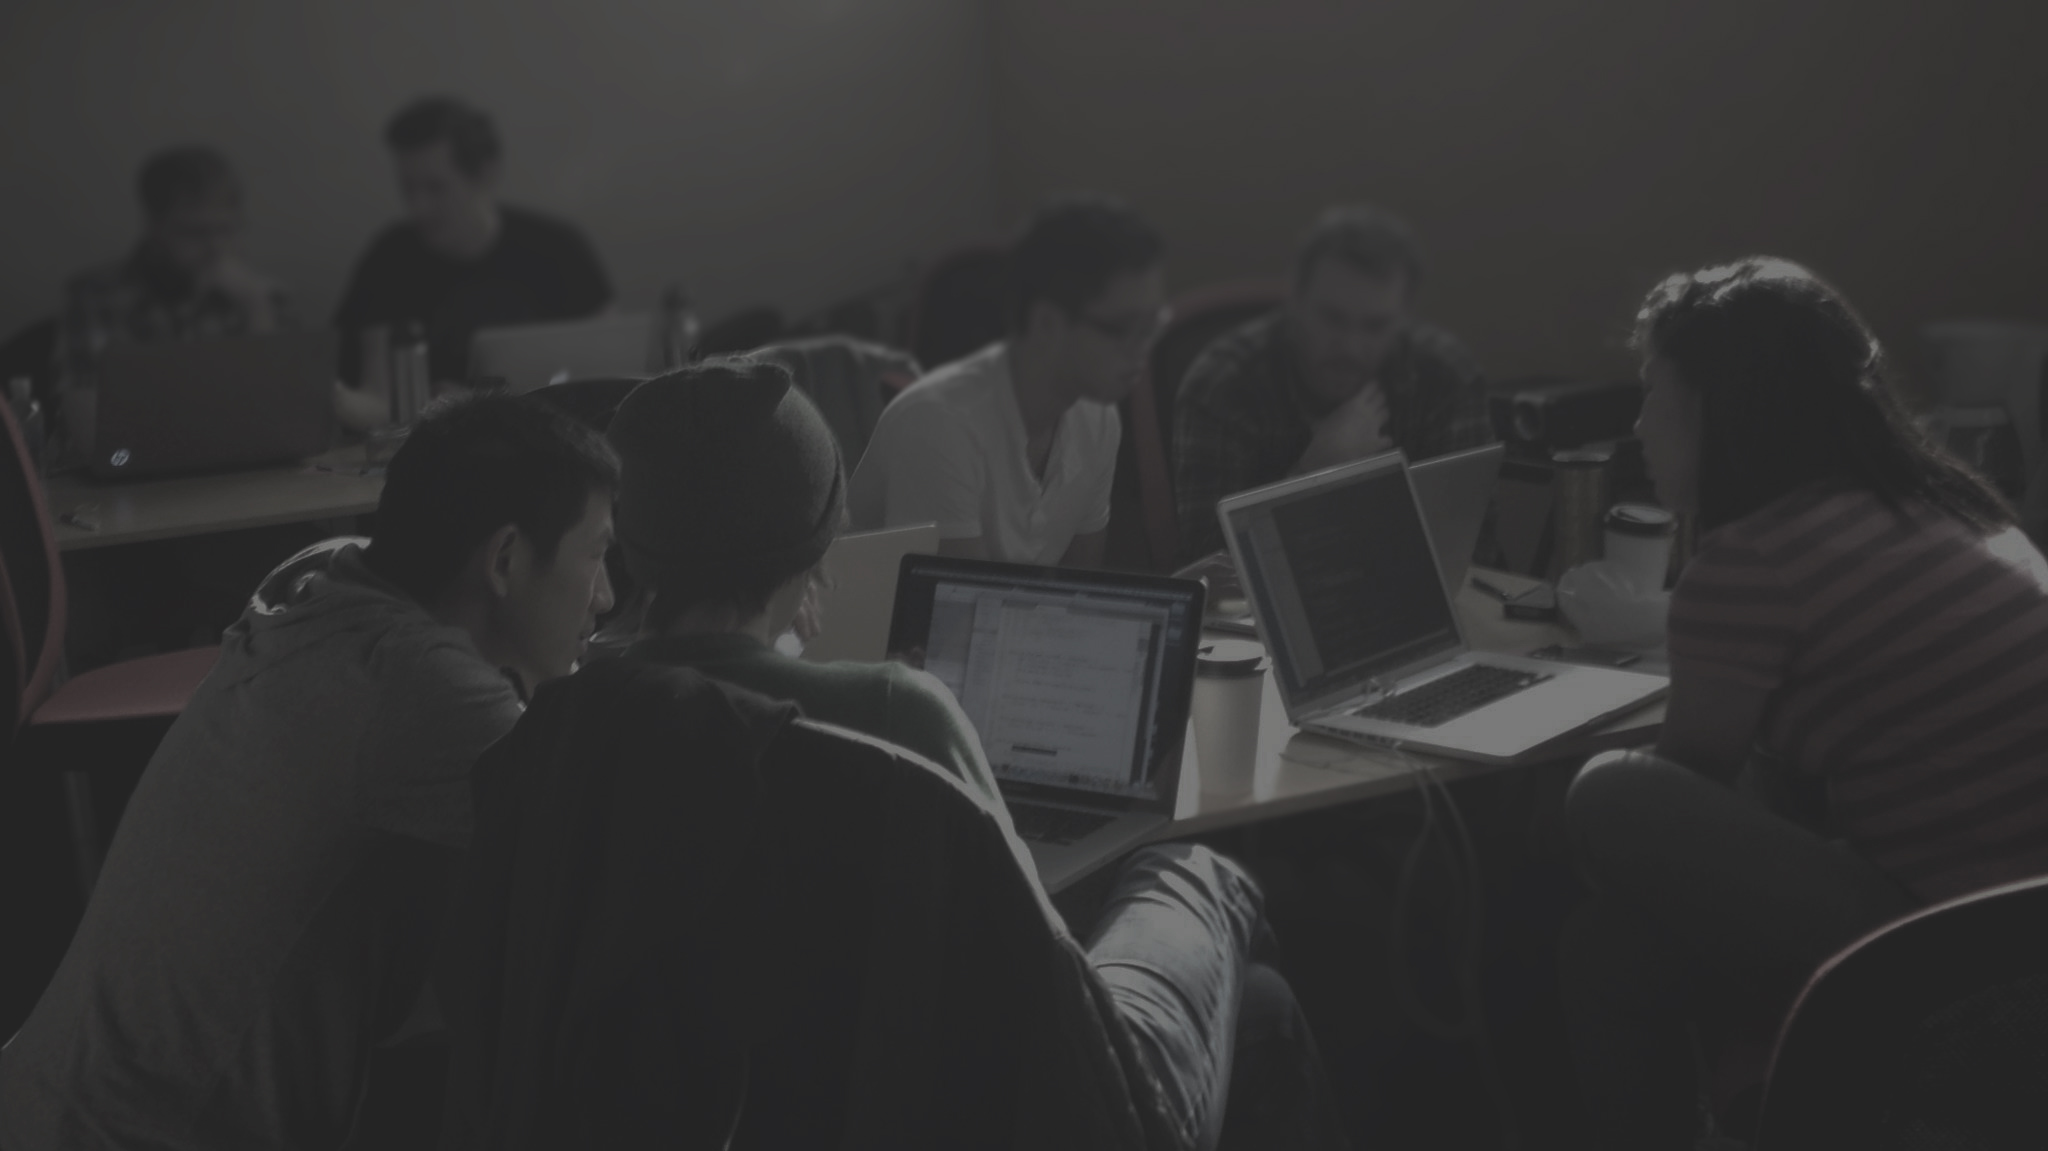
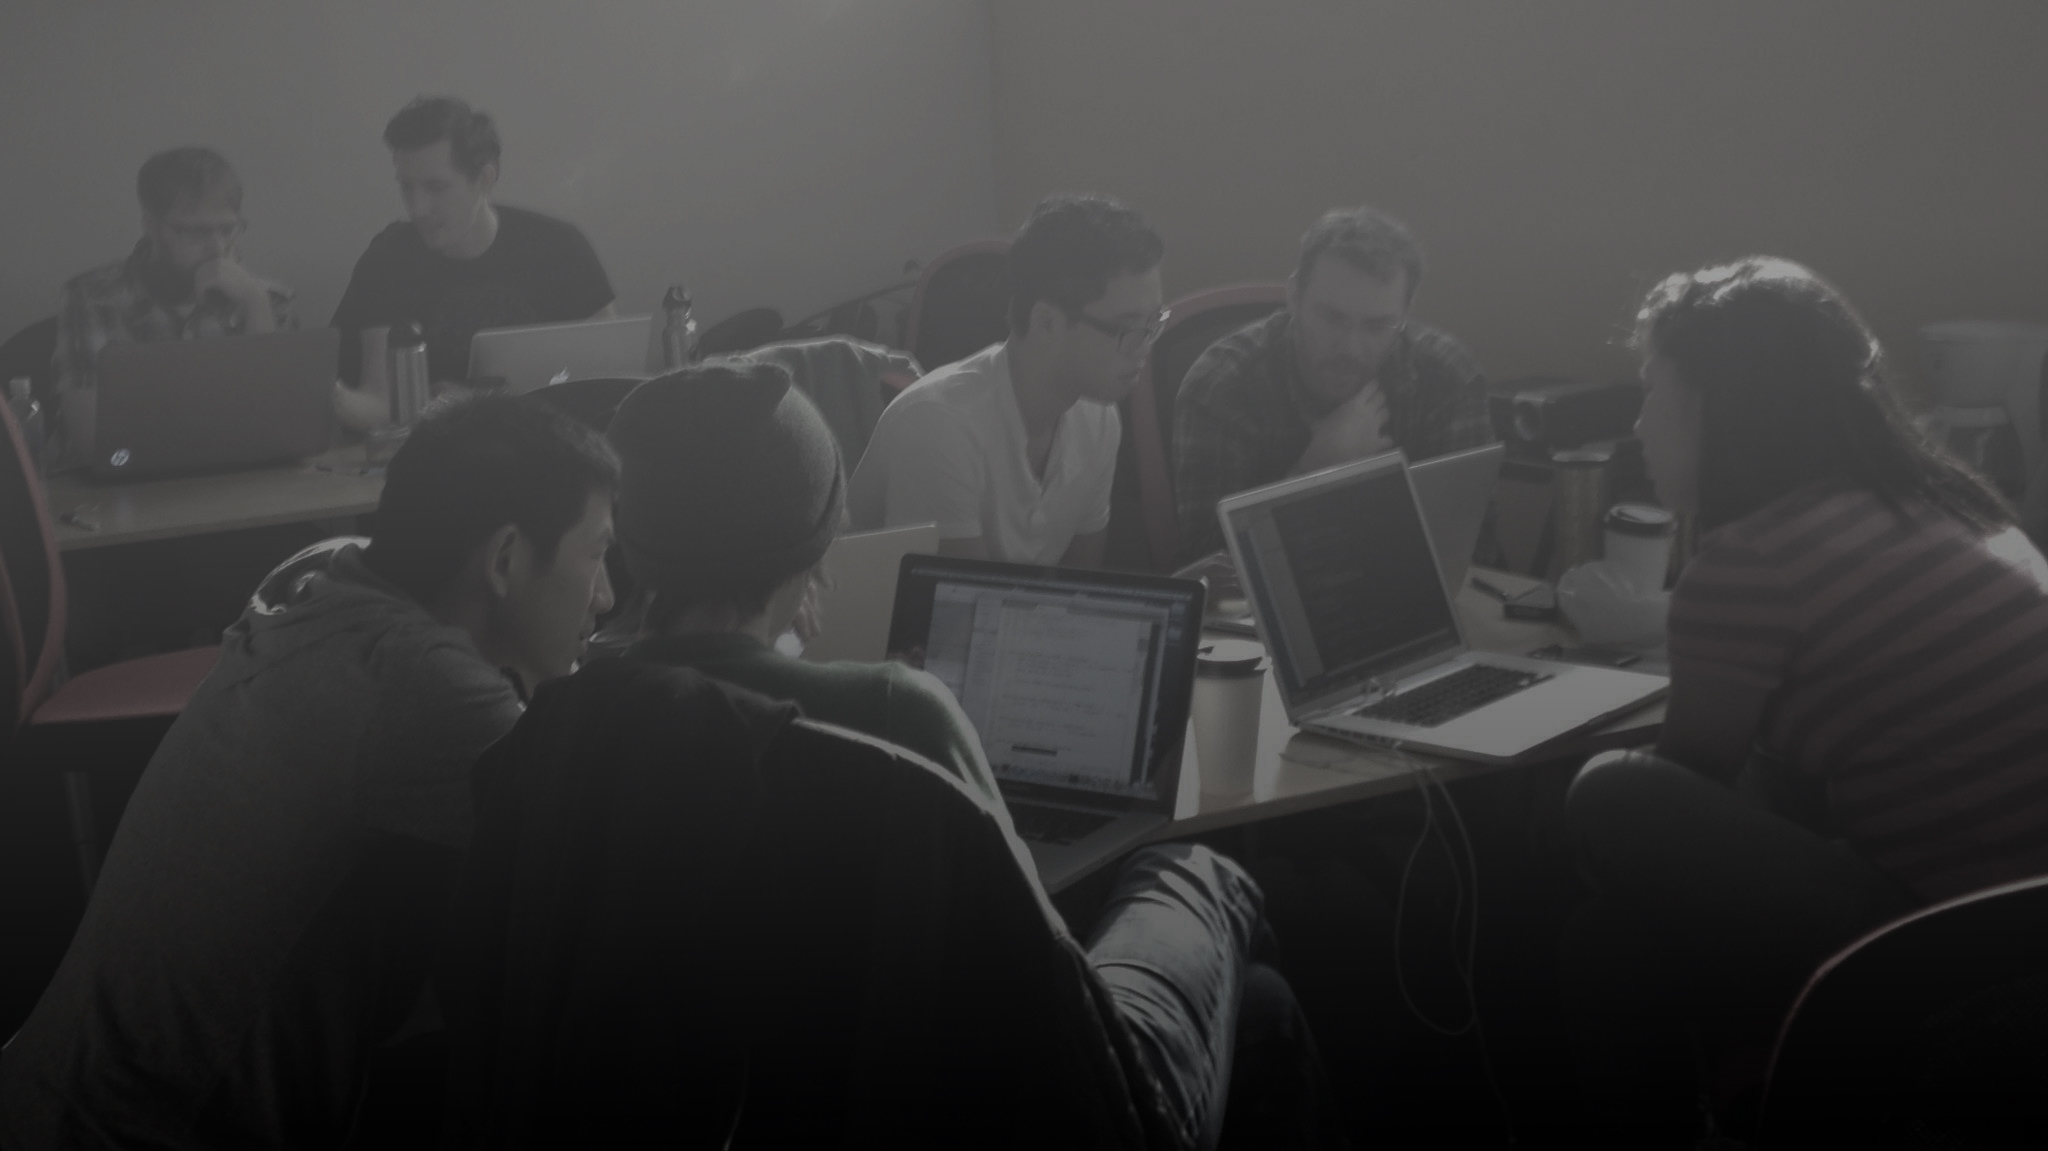
Tweak index page to increase image contrast, fix tagline

diff --git a/source/stylesheets/all.css.scss b/source/stylesheets/all.css.scss
@@ -165,7 +165,7 @@ h3 {
 }
 
 .tagline {
-  font-size: 2.5em;
+  font-size: 2em;
 }
 
 .link-padding:before { 
